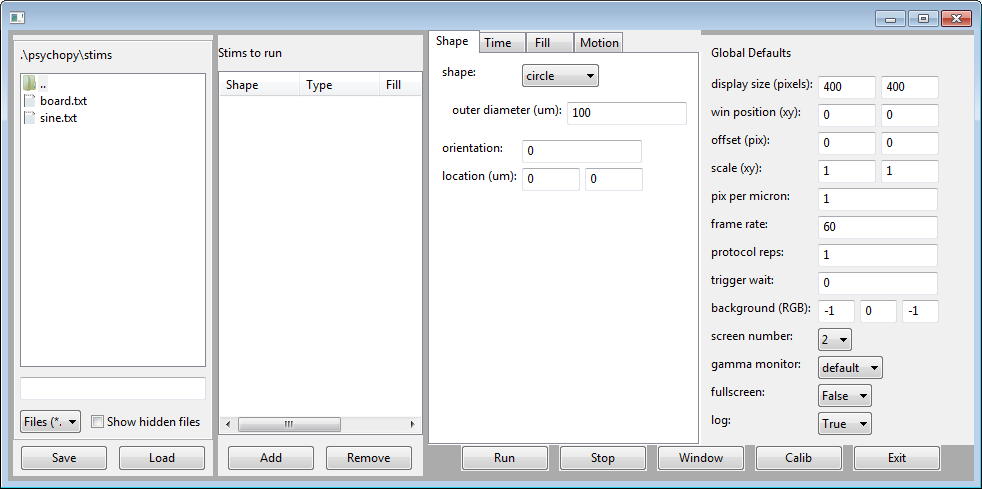
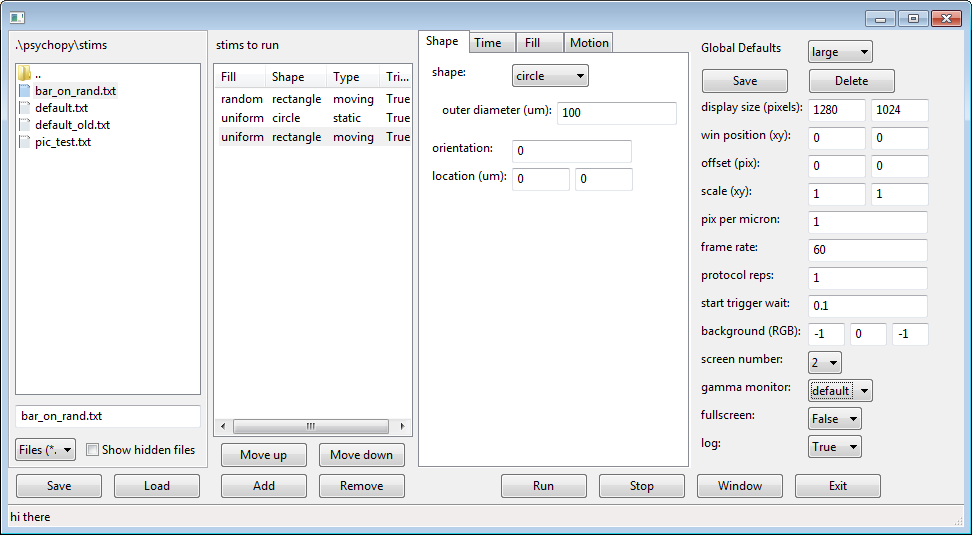
screenshot update

diff --git a/README.md b/README.md
@@ -49,13 +49,9 @@ file for license rights and limitations.
 
 ### Screen Shots (Windows 7)
 
-Main screen:
+Main screen with queued stims:
 
 ![main screen](docs/screenshots/screen1.PNG)
-
-Stims to run:
-
-![stims added](docs/screenshots/screen3.PNG)
 
 Example stimuli:
 
